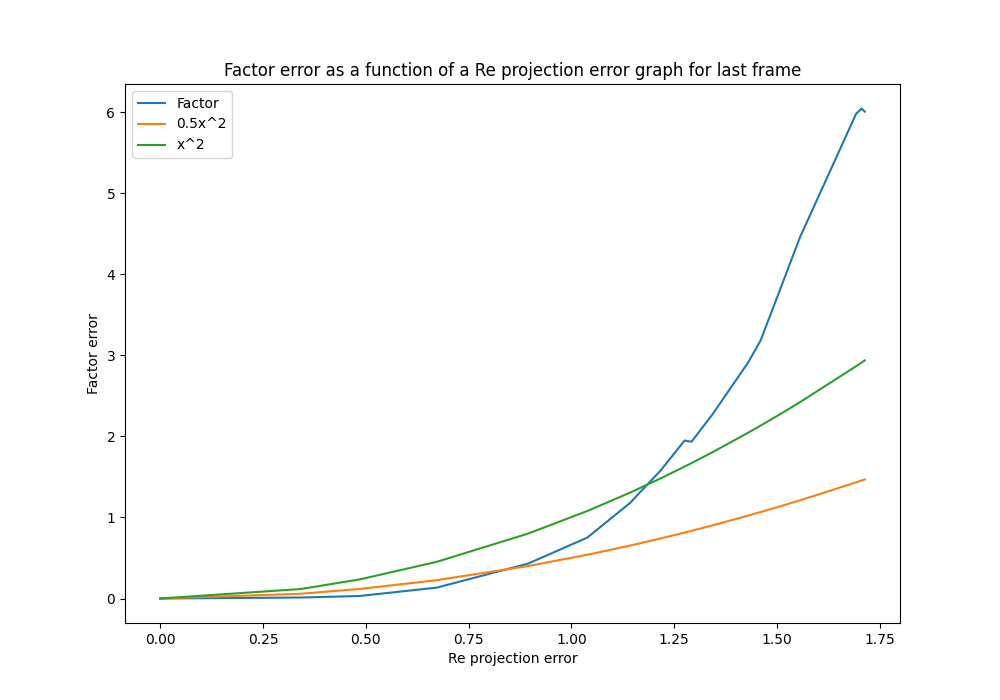
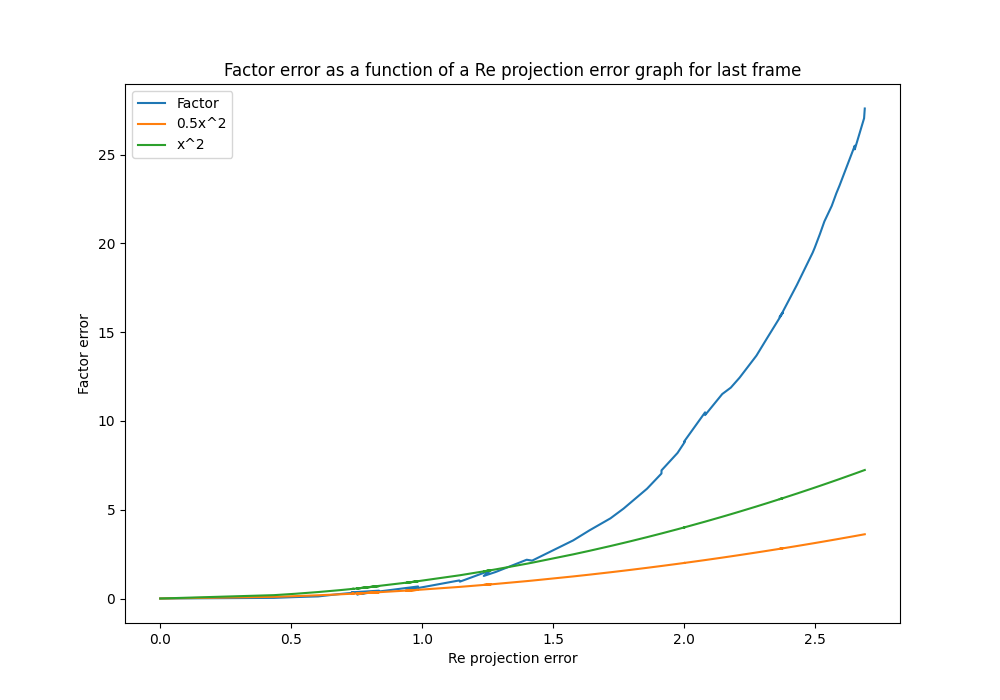
factor grow exp

diff --git a/ex5.py b/ex5.py
@@ -6,7 +6,6 @@ import numpy as np
 import exs_plots
 
 
-
 # todo maybe in ex4 every track is missing the last frame
 # todo check weather the Rt that's got from ex3 are corresponding to the frame
 #  (maybe there is a 1 shift between the frames and the Rts??)
@@ -238,9 +237,6 @@ def triangulate_and_project(db, track, frames):
     exs_plots.plot_factor_as_func_of_re_projection_error_graph(projection_factor_errors, total_proj_dist)
 
 
-
-
-
 def triangulate_from_last_frame_and_project_to_all_frames(db, track):
     frames_in_track = [frame for frame in track.frames_by_ids.values()]
 
@@ -331,7 +327,7 @@ def triangulate_from_last_frame_and_project_to_all_frames(db, track):
 if __name__ == '__main__':
     db = ex4.build_data()
     # 5.1
-    track = utilities.get_track_in_len(db, 11, False)
+    track = utilities.get_track_in_len(db, 40, False)
     triangulate_from_last_frame_and_project_to_all_frames(db, track)
     # triangulate_from_last_frame_and_project_to_all_frames_repo(db, track)
 
